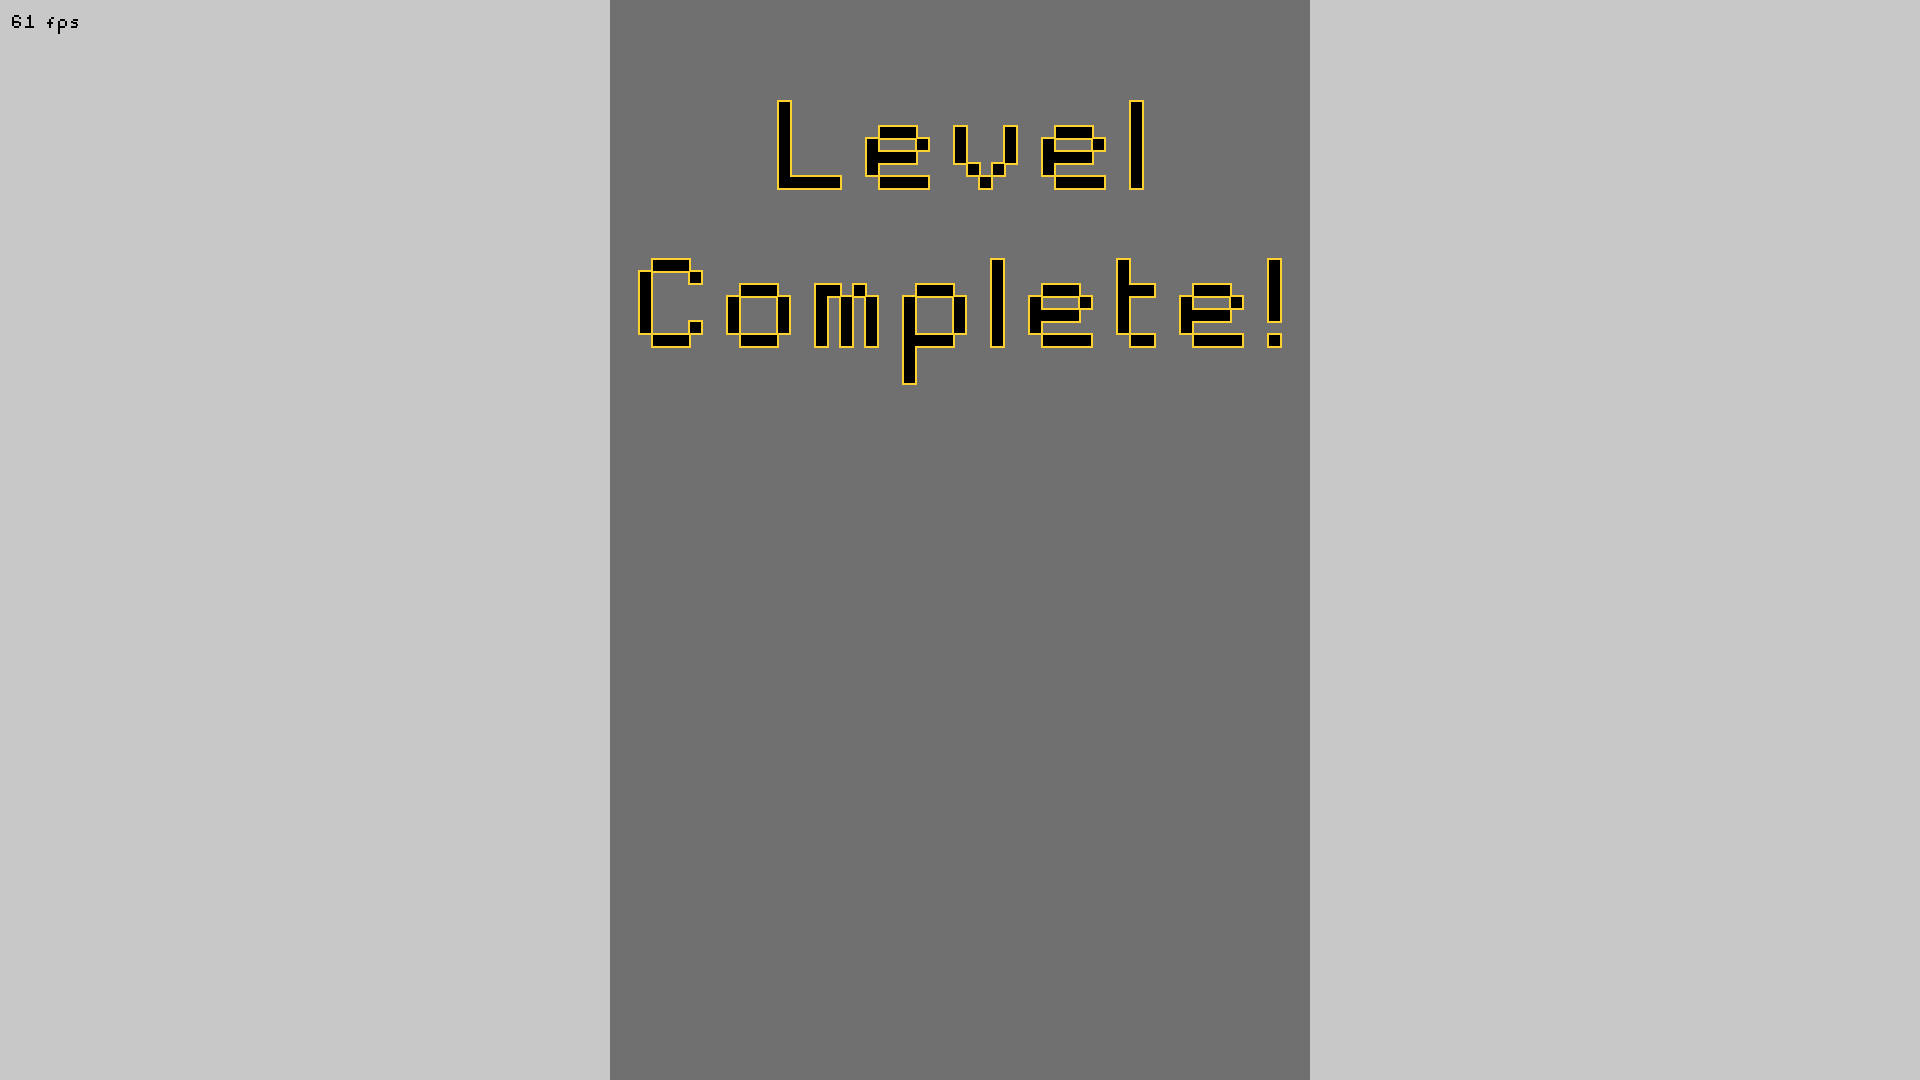
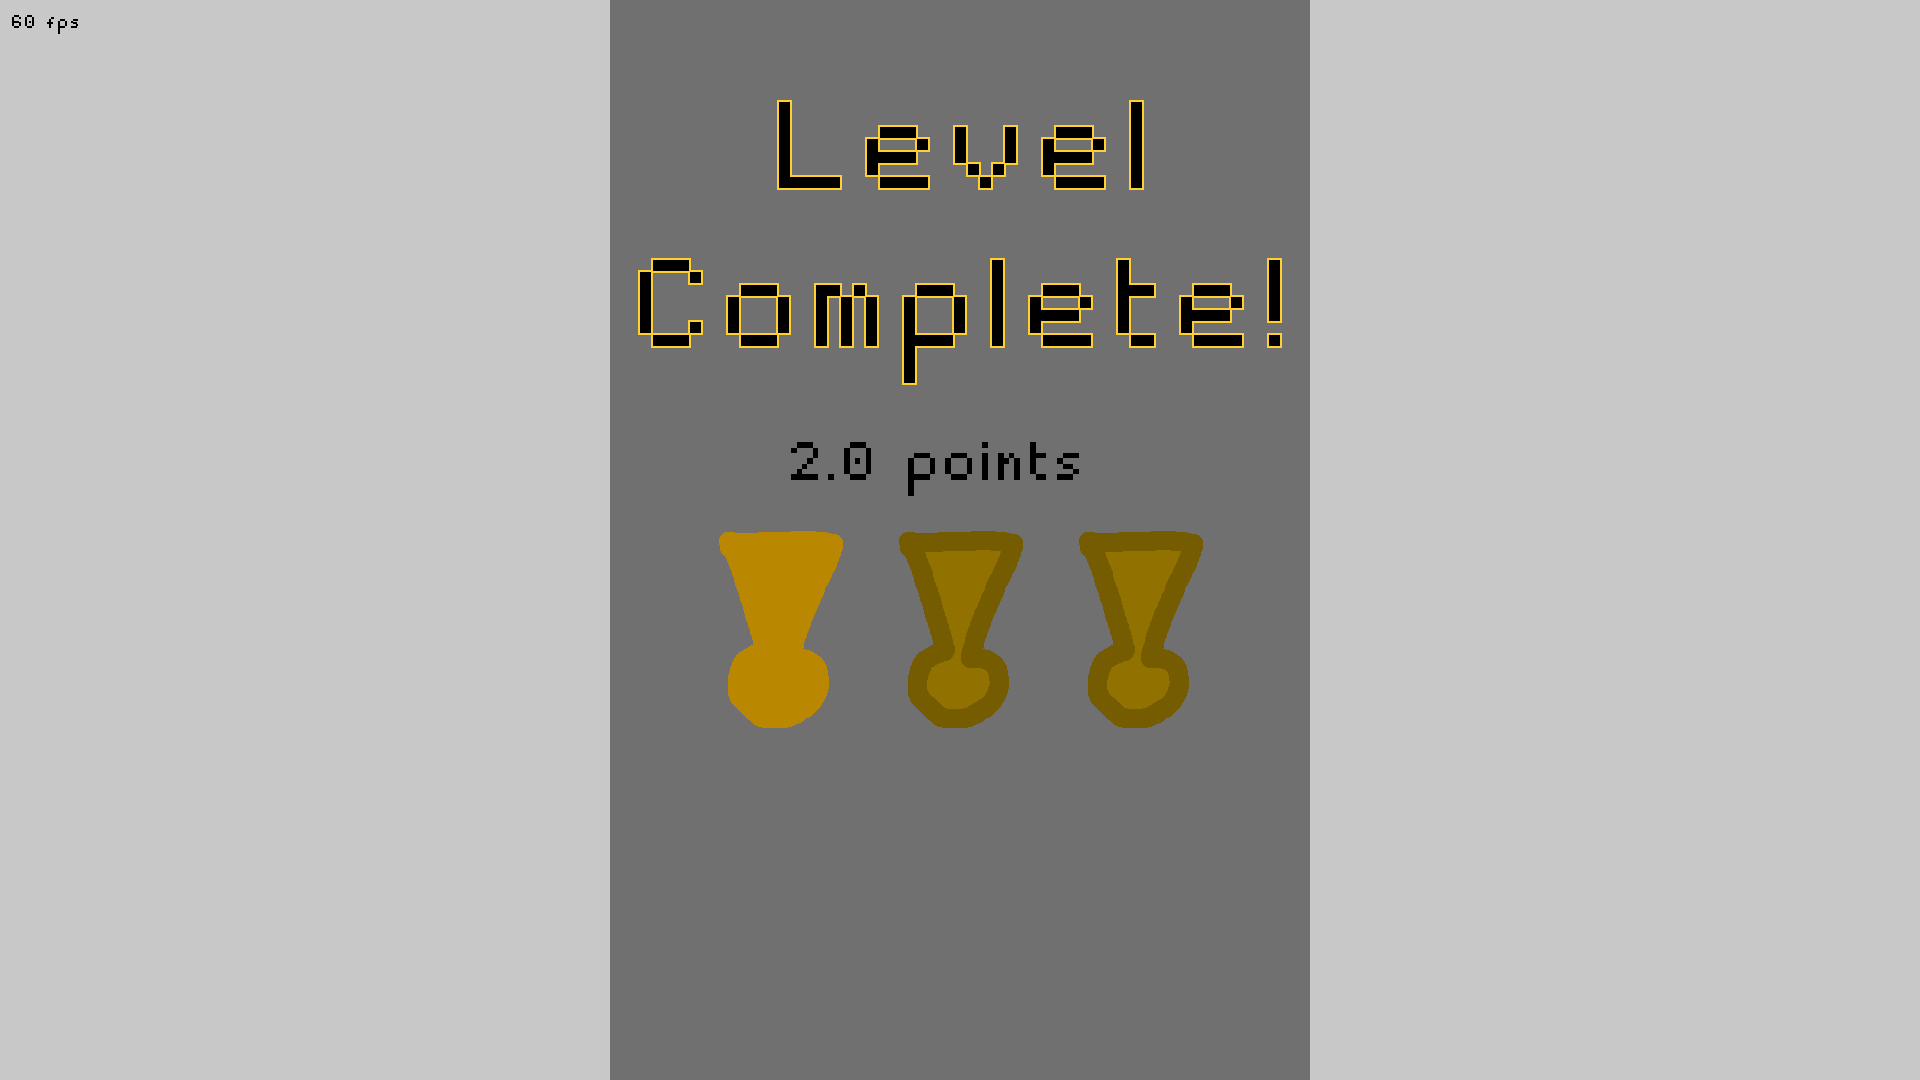
eol ui part 2

diff --git a/game.py b/game.py
@@ -117,12 +117,20 @@ class Game:
         game_surface.blit(textures.END_OF_LEVEL_BACKGROUND, self.scale.to_screen_pos(co.EOL_BG_X, 0))
         game_surface.blit(textures.END_OF_LEVEL_TITLE, self.scale.to_screen_pos(*co.EOL_TITLE_POS))
 
+        utils.draw_text_center(game_surface, f'{self.current_level.points} points', co.POINTS_TEXT_SIZE[1],
+                               self.scale.to_screen_rect(pyg.Rect(*co.POINTS_TEXT_POS, *co.POINTS_TEXT_SIZE)),
+                               (0, 0, 0))
+
         medal_count = len(self.current_level.required_points) - 1
         medals = self.current_level.get_medals()
 
-        for pos, medal in zip(co.MEDAL_POS[medal_count], medals):
-            game_surface.blit(textures.MEDALS[medal], pos)
-
+        for k, (pos, medal) in enumerate(zip(co.MEDAL_POS[medal_count], medals)):
+            game_surface.blit(textures.MEDALS[medal], self.scale.to_screen_pos(*pos))
+            utils.draw_text_center(game_surface, f'{self.current_level.required_points[k]} pts',
+                                   co.MEDAL_TEXT_FONT_SIZE,
+                                   self.scale.to_screen_rect(
+                                       pyg.Rect(pos[0], co.MEDAL_TEXT_Y, co.MEDAL_WIDTH, co.MEDAL_TEXT_FONT_SIZE)),
+                                   (0, 0, 0), bold=medal > 0)
 
     def loop(self):
         self.frame += 1

diff --git a/utils.py b/utils.py
@@ -21,8 +21,16 @@ def get_font(size, bold=False, italic=False, underline=False):
     return font
 
 
-def draw_text(screen: pyg.Surface, text: str, size: int, pos: tuple[float, float], color: pyg.Color, bold=False,
+def draw_text(screen: pyg.Surface, text: str, size: int, pos: tuple[float, float], color: tuple[int, int, int], bold=False,
               italic=False, underline=False):
     font: pyg.font.Font = get_font(size, bold=bold, italic=italic, underline=underline)
     img = font.render(text, False, color)
     screen.blit(img, pos)
+
+
+def draw_text_center(screen: pyg.Surface, text: str, size: int, rect: pyg.Rect, color: tuple[int, int, int], bold=False,
+                     italic=False, underline=False):
+    font: pyg.font.Font = get_font(size, bold=bold, italic=italic, underline=underline)
+    img = font.render(text, False, color)
+    print(rect, img.get_size())
+    screen.blit(img, (rect.centerx - img.get_width() / 2, rect.centery - img.get_height() / 2))

diff --git a/constants.py b/constants.py
@@ -31,11 +31,15 @@ EOL_BG_X = (WIDTH - EOL_BG_WIDTH) / 2
 EOL_TITLE_WIDTH = 644
 EOL_TITLE_POS = (EOL_BG_X + (EOL_BG_WIDTH - 644) / 2, 100)
 
+POINTS_TEXT_POS = (EOL_BG_X + 200, 420)
+POINTS_TEXT_SIZE = (300, 85)
+
 MEDAL_WIDTH = 130
+MEDAL_HEIGHT = 200
 MEDAL_GAP = 50
 MEDAL_X = (EOL_BG_WIDTH - 3 * MEDAL_WIDTH - 2 * MEDAL_GAP) / 2
 MEDAL_X_2 = (EOL_BG_WIDTH - 2 * MEDAL_WIDTH - MEDAL_GAP) / 2
-MEDAL_Y = 450
+MEDAL_Y = 530
 MEDAL_POS = [
     [
         (EOL_BG_X + MEDAL_X + MEDAL_WIDTH + MEDAL_GAP, MEDAL_Y)
@@ -50,6 +54,9 @@ MEDAL_POS = [
         (EOL_BG_X + MEDAL_X + 2 * (MEDAL_WIDTH + MEDAL_GAP), MEDAL_Y)
     ]
 ]
+
+MEDAL_TEXT_FONT_SIZE = 50
+MEDAL_TEXT_Y = MEDAL_Y + MEDAL_HEIGHT + 50
 
 
 # Cells

diff --git a/level.py b/level.py
@@ -31,7 +31,7 @@ class LevelManager:
 
     def __get_level(self):
         if self.number == 0:
-            return Level(1, 32, 3, [1, 3, 5], [Cell(x, 0, 1, 1) for x in range(8)]
+            return Level(1, 32, 3, [1, 3, 100], [Cell(x, 0, 1, 1) for x in range(8)]
                          + [Cell(0, 1, 2, 1)] + [Cell(0, 4, 1, 1, co.CellType.FORBIDDEN)]
                          + [Cell(5, 2, 1, 1, co.CellType.CIRCLE_P1)]
                          + [Cell(0, -4, 1, 1, co.CellType.BLOCKER)]
